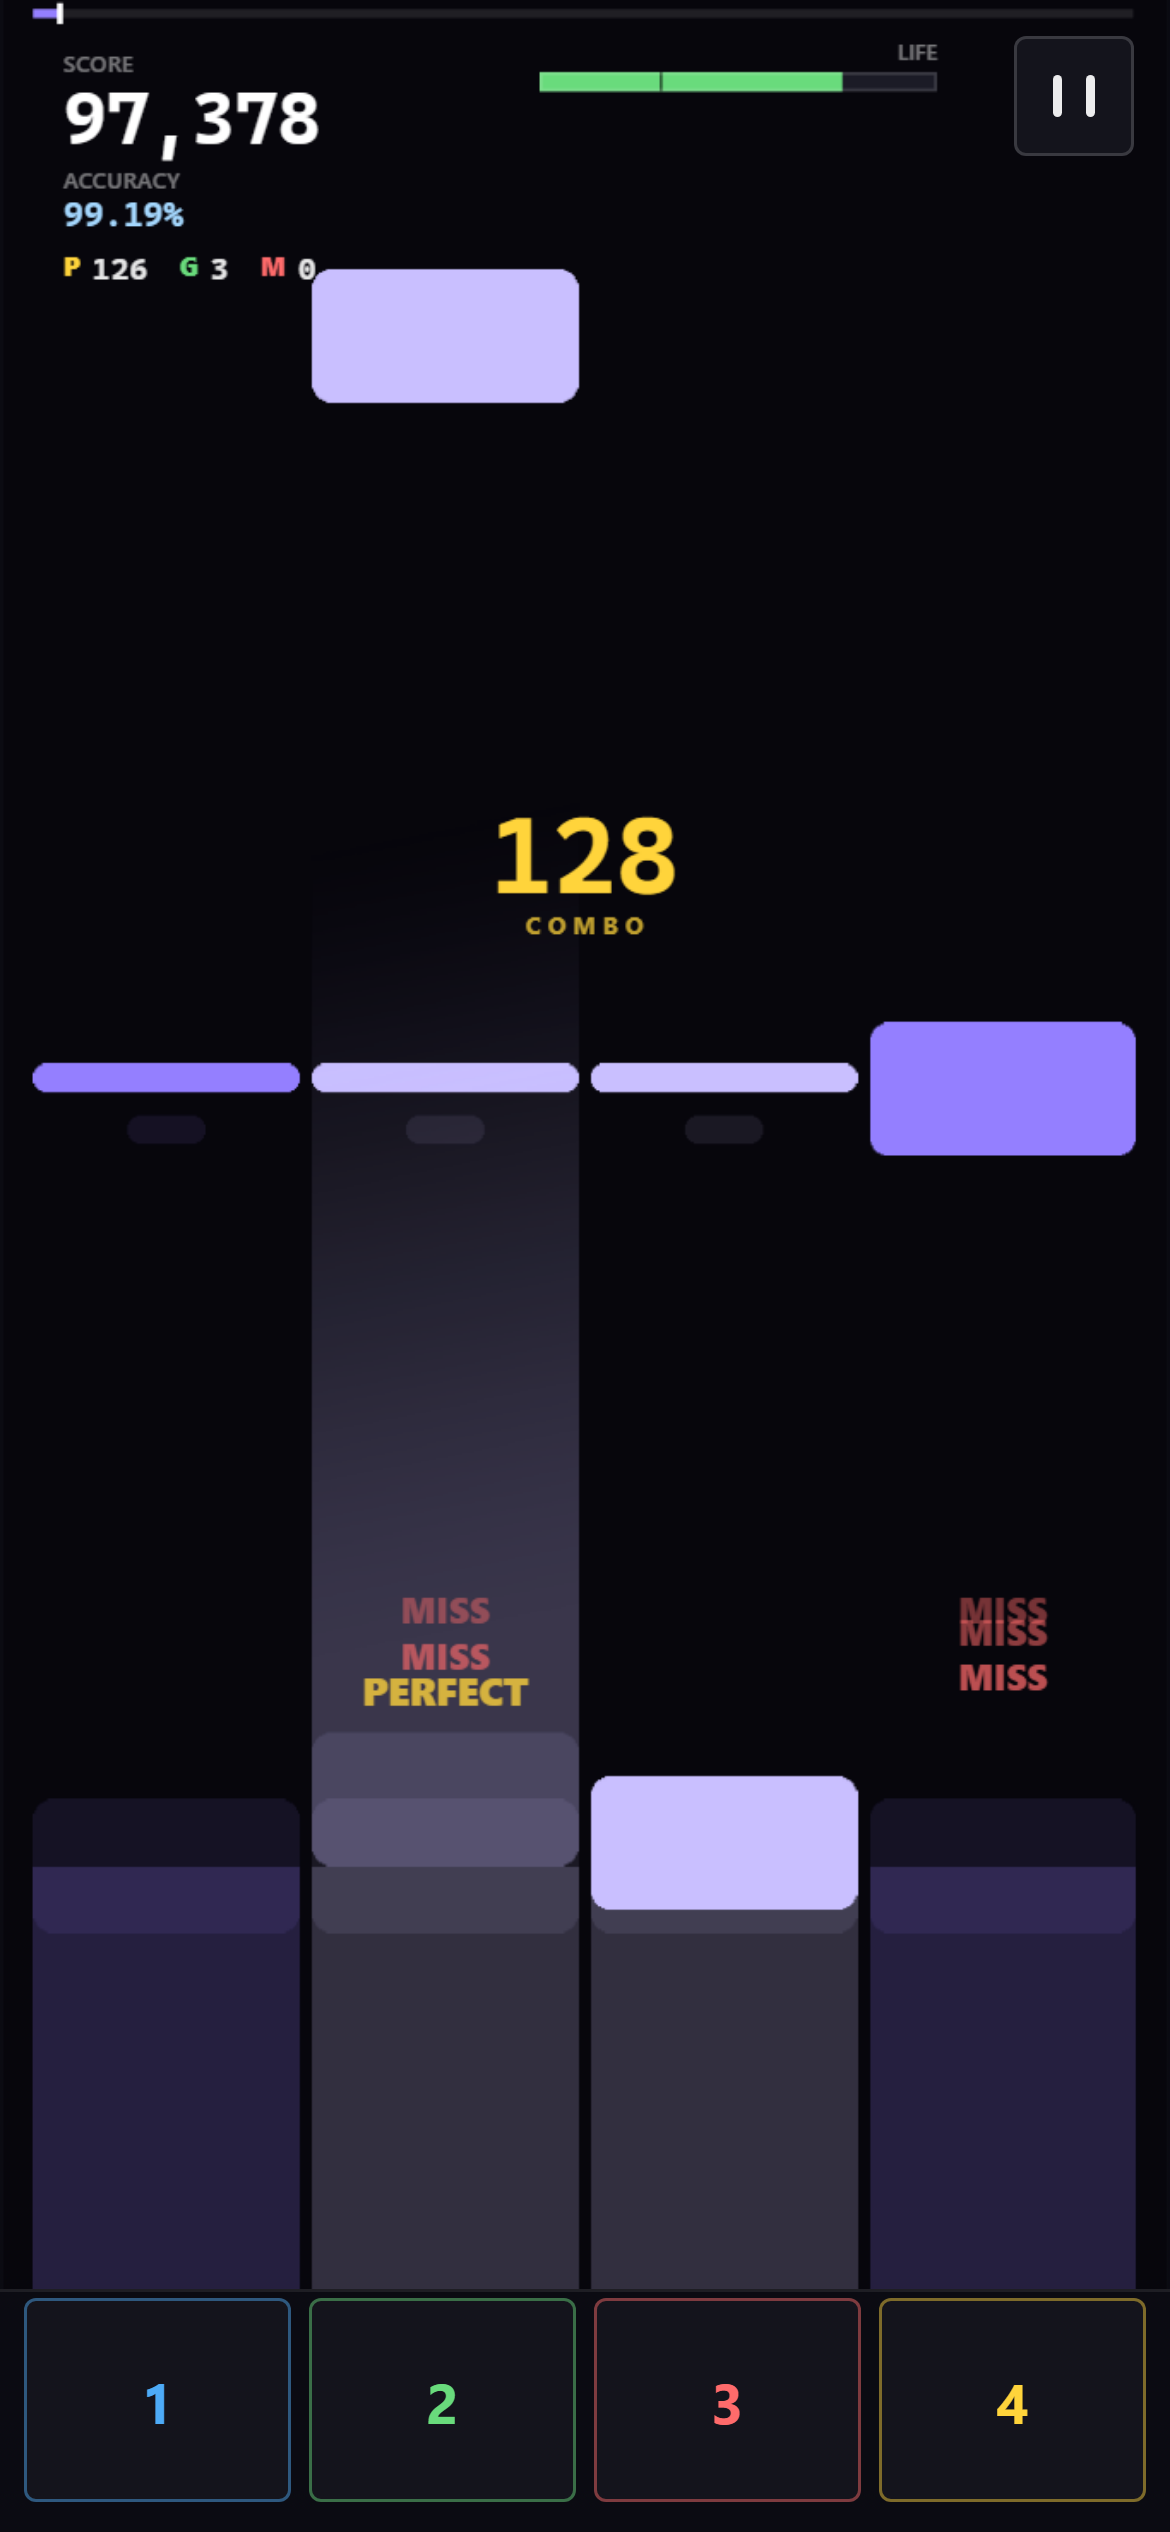
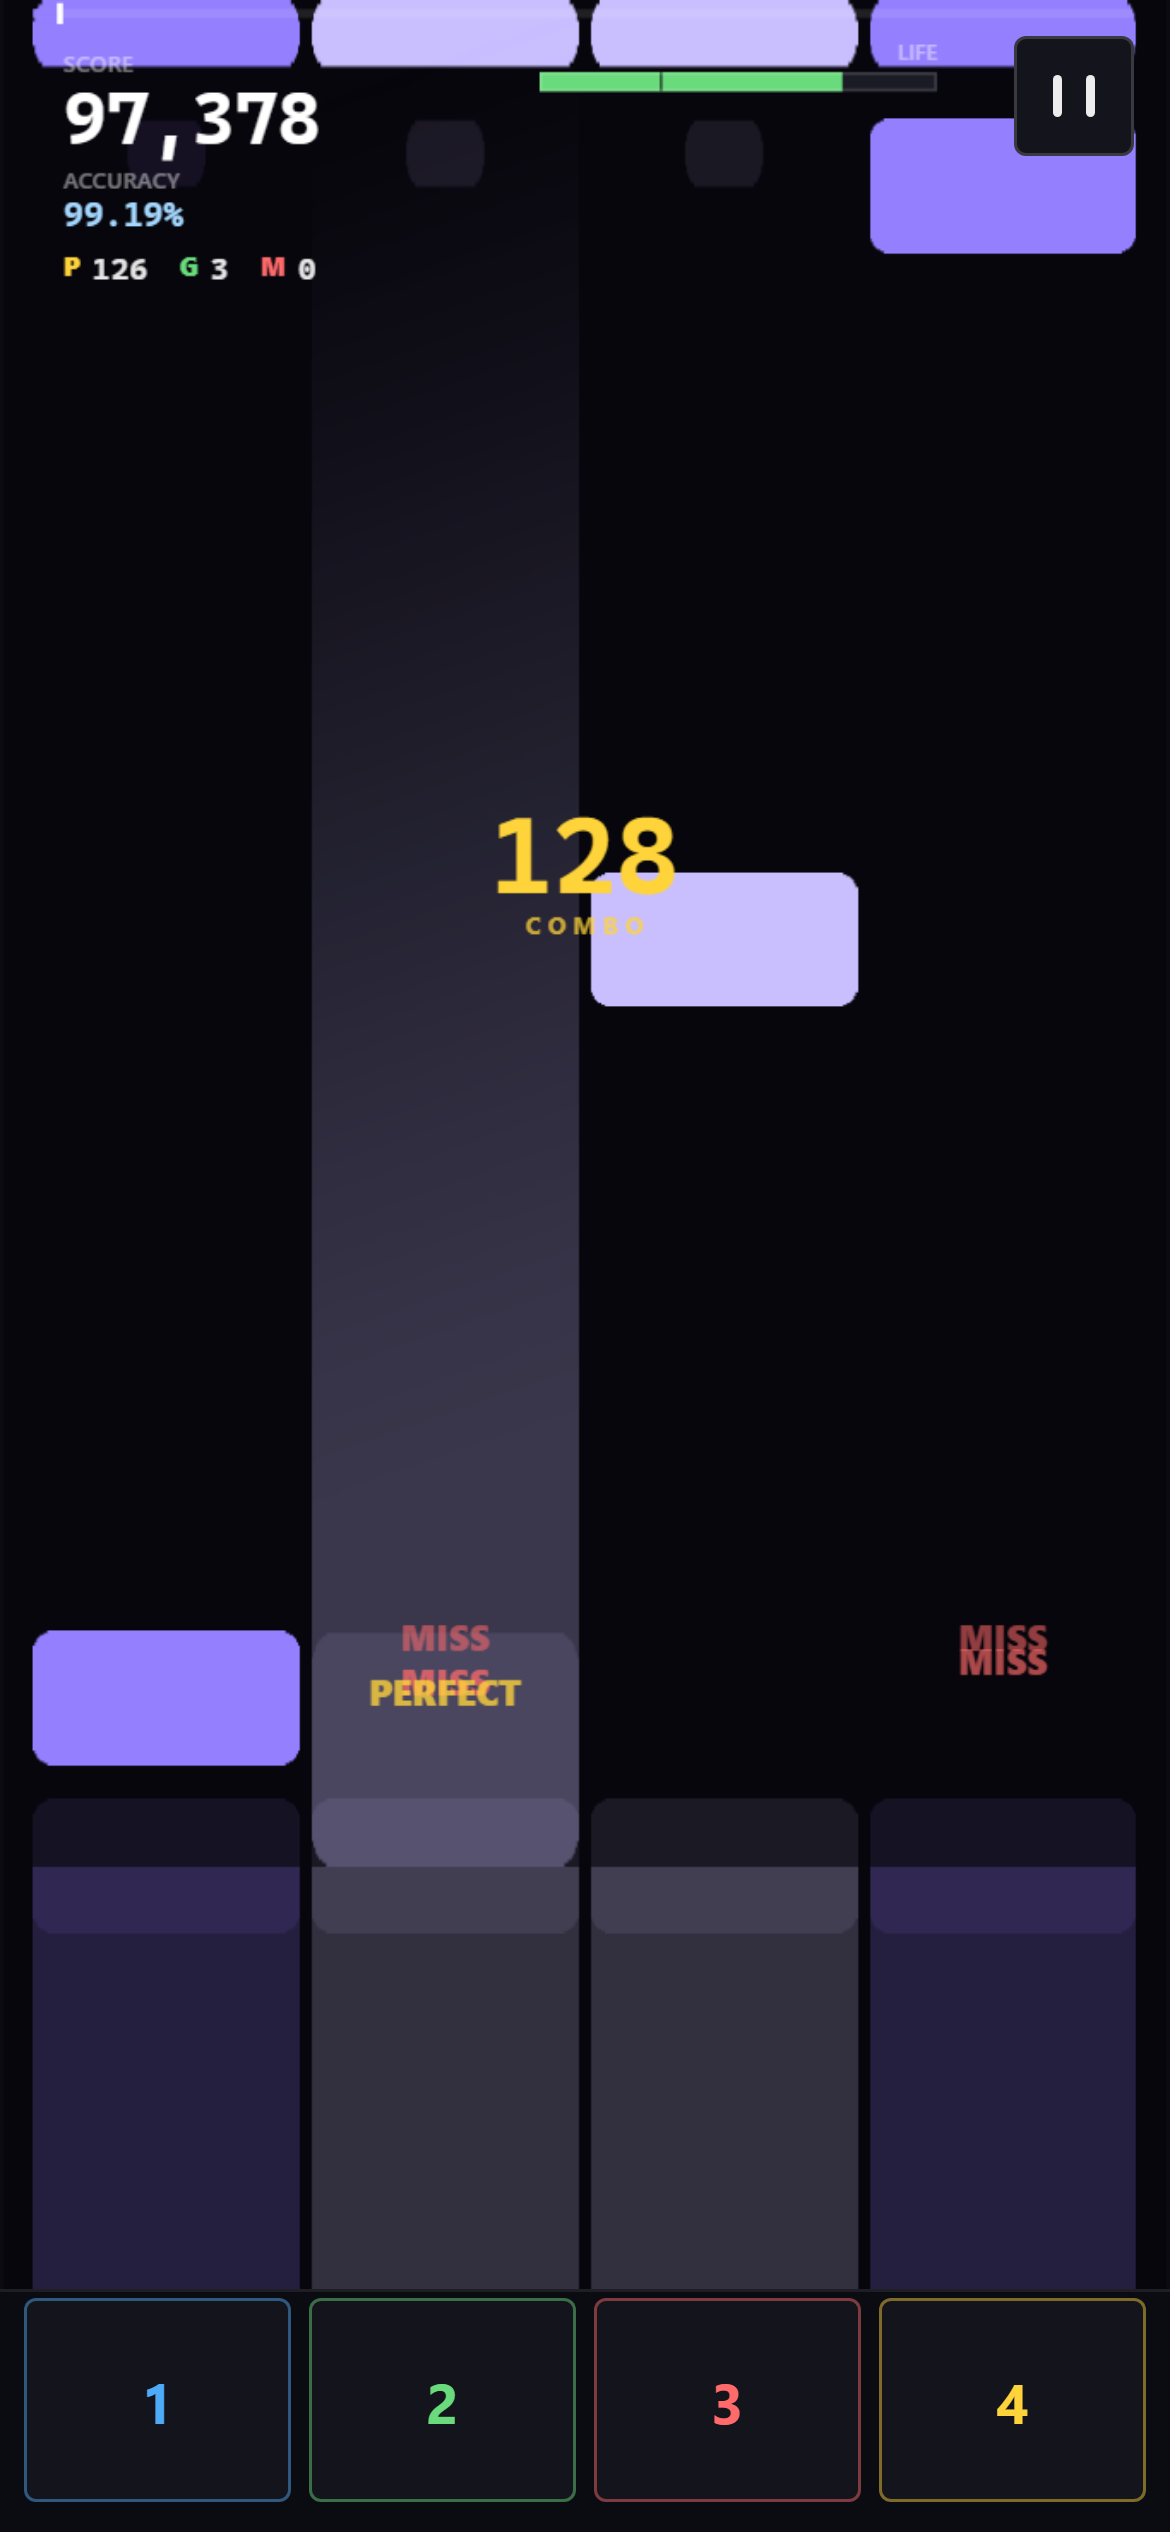
fix: 皮肤键位列顶边在画面中部形成假判定线
- 现象：皮肤模式下画面中部（PC 52% / 手机 42%）出现一条横线，误认为判定线
- 原因：脚本里 key（300 高）/ press（400 高）按原高绘制时，顶边落在轨道中部；
  真正的判定线在 85%（内置）/ 89%（皮肤）/ 74%（手机）
- 修复：键位列与按下列铺满判定线以上的整条轨道，顶边移出画面，只保留两侧描边
- 性能面板新增 JY 读数（判定线 y / 画布高 / 百分比），便于自查
- README 补充说明；重新生成皮肤截图

diff --git a/js/perf-monitor.js b/js/perf-monitor.js
@@ -31,6 +31,7 @@ class PerfMonitor {
         this._fpsEl = null;
         this._latencyEl = null;
         this._frameTimeEl = null;
+        this._jyEl = null;
 
         this._visible = true;
         this._createDOM();
@@ -43,12 +44,14 @@ class PerfMonitor {
             <span class="perf-item" id="perfFps">FPS --</span>
             <span class="perf-item" id="perfFt">FT --ms</span>
             <span class="perf-item" id="perfLat">LAT --ms</span>
+            <span class="perf-item" id="perfJy">JY --</span>
         `;
         document.body.appendChild(container);
         this._container = container;
         this._fpsEl = document.getElementById('perfFps');
         this._frameTimeEl = document.getElementById('perfFt');
         this._latencyEl = document.getElementById('perfLat');
+        this._jyEl = document.getElementById('perfJy');
     }
 
     /** 每帧开始时调用 */
@@ -102,6 +105,20 @@ class PerfMonitor {
             const latClass = this.audioLatency < 30 ? 'perf-good' : this.audioLatency < 60 ? 'perf-warn' : 'perf-bad';
             this._latencyEl.textContent = `LAT ${lat}ms`;
             this._latencyEl.className = `perf-item ${latClass}`;
+        }
+        if (this._jyEl) {
+            // 判定线位置 / 画布高度（排查"判定线位置不对"时看这一项）
+            try {
+                const r = (typeof renderer !== 'undefined') ? renderer : null;
+                if (r && r.canvasHeight > 0) {
+                    const pct = Math.round((r._judgmentY / r.canvasHeight) * 100);
+                    this._jyEl.textContent = `JY ${Math.round(r._judgmentY)}/${Math.round(r.canvasHeight)} ${pct}%`;
+                } else {
+                    this._jyEl.textContent = 'JY --';
+                }
+            } catch (err) {
+                this._jyEl.textContent = 'JY --';
+            }
         }
     }
 

diff --git a/js/renderer.js b/js/renderer.js
@@ -280,17 +280,18 @@ class Renderer {
             skin.drawLaneSprite(ctx, '_bottom', i, positions[i].x, jy, trackW, bottomH);
         }
 
-        // 3. 键位提示列（贴图本身很淡，只做轨道轮廓）
-        const keyH = layout.keyHeight * s;
+        // 3. 键位列：从判定线一路铺到屏幕顶部。
+        // 皮肤脚本里的 key 贴图高度是 300（设计单位），若按原高绘制会在画面中部留下
+        // 一条横向顶边——看起来像多了一根判定线。铺满轨道高度后顶边移出画面，
+        // 只留两侧的轨道描边，底部圆角正好落在判定线上。
         for (let i = 0; i < positions.length; i++) {
-            skin.drawLaneSprite(ctx, 'key', i, positions[i].x, jy - keyH, trackW, keyH);
+            skin.drawLaneSprite(ctx, 'key', i, positions[i].x, 0, trackW, jy);
         }
 
-        // 4. 按下列：白底贴图按轨道色着色，opacity 来自脚本（35%）
-        const pressH = layout.pressHeight * s;
+        // 4. 按下列：白底贴图按轨道色着色，opacity 来自脚本（35%），同样铺满判定线以上
         for (let i = 0; i < positions.length; i++) {
             if (!gameState.pressedKeys.has(KEYS[i])) continue;
-            skin.drawLaneSprite(ctx, 'press', i, positions[i].x, jy - pressH, trackW, pressH, {
+            skin.drawLaneSprite(ctx, 'press', i, positions[i].x, 0, trackW, jy, {
                 useElementColor: true,
                 useElementOpacity: true
             });

diff --git a/README.md b/README.md
@@ -16,7 +16,7 @@
 - **音符样式**：FLAT（扁平块，默认）/ PIXEL（像素块），均为纯色块 + 1px 描边，可随时切换
 - **皮肤系统**：内置扁平皮肤 / **Malody V .mui 皮肤**（已接入 Yuxen 4K：轨道、音符、长条、按键；判定文字与判定线沿用本项目处理），设置页一键切换
 - **视觉特效**：方块粒子、命中判定线加粗、判定文字动画、倒计时卡片
-- **实时性能监控**：按下 `` ` `` 键即可查看 FPS、帧时间、音频延迟
+- **实时性能监控**：按下 `` ` `` 键即可查看 FPS、帧时间、音频延迟与判定线位置（`JY 622/844 74%`，排查判定线位置问题时看这一项）
 - **数据驱动配置**：判定窗口、血量、音效参数均通过外部 JSON 配置，无需改代码
 - **纯前端运行**：无需服务器、无需数据库、零依赖，打开即玩
 
@@ -158,6 +158,12 @@ const SKIN_DRAW = {
 ```
 
 默认两项都关闭：判定文字统一用本项目的扁平文字，判定线隐藏，避免与内置 HUD 风格混搭。
+
+### 键位列与「假判定线」
+
+皮肤脚本里 `key`（键位提示）只有 300 设计单位高、`press`（按下列）400 高。如果按脚本原高绘制，它们的**顶边**会落在画面中部，看起来像多了一条横贯屏幕的判定线（PC 约 52%、手机约 42%）——实际上真正的判定线在 85%（内置）/ 89%（皮肤）/ 74%（手机）。
+
+因此本作把键位列与按下列**铺满判定线以上整条轨道**（`js/renderer.js` 的 `_drawSkinTracks`），顶边移出画面，只保留两侧轨道描边，底部圆角正好落在判定线上。
 
 ### 限制
 
